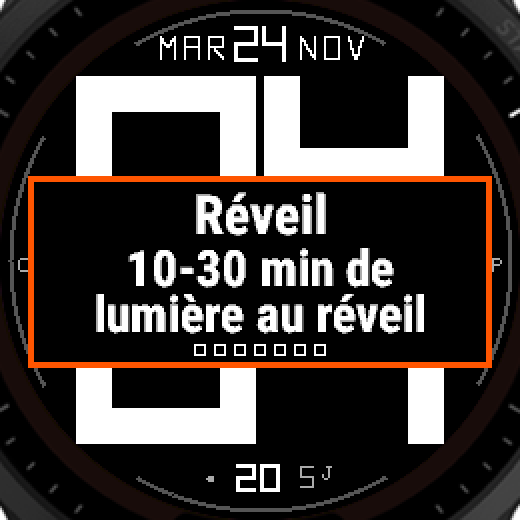
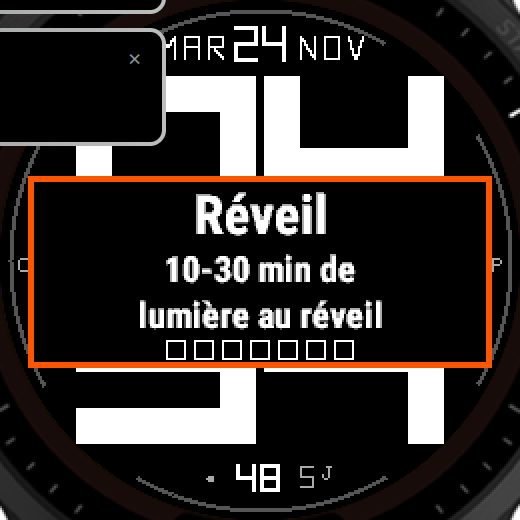
refactor(watchface): XTINY, carres 10 px et tableaux d'algorithmes
Suppression de la variante Pup18Ok et de ses captures. Message en FONT_XTINY, carres d'habitude de 10 px remplis de la couleur de bordure. Extraction de nsdrContext(hour) pour tester le vrai choix de contexte NSDR (9/14/17/21 h). Ajout d'une capture habit-partiel (3 carres remplis) et d'une colonne Algorithme dans les tableaux. Durée NSDR confirmee a 20 min d'apres les extraits RAG.

diff --git a/docs/screens/README.md b/docs/screens/README.md
@@ -1,48 +1,54 @@
 # Captures des rappels Protocoles — Forerunner 955
 
-Douze captures prises sur le simulateur Connect IQ `fr955` avec le cadran de
+Douze captures prises sur le simulateur Connect IQ `fr955` avec un cadran de
 test forçant le créneau (le champ « Time Simulation » n'entre pas 17:30 de
 façon fiable). Deux recadrages par variante :
 
 - `*-watch.png` — cadran complet, 520 × 520 px ;
 - `*-popup.png` — rectangle seul, 466 × 194 px (232 × 96 px CIQ × 2).
 
-Rendu final : fond noir, texte blanc centré horizontalement et verticalement,
-bordure pleine de 3 px colorée par catégorie, interligne de 23 px CIQ, barre de
-7 carrés (vides si non fait, pleins si fait). Chaque image a été relue : titre
-en Title Case, message complet sur deux lignes, accents `é è °`.
+Rendu final : fond noir, titre `FONT_SMALL` et message `FONT_XTINY` en blanc
+centrés horizontalement et verticalement, bordure pleine de 3 px colorée par
+catégorie, interligne de 23 px CIQ, barre de 7 carrés de 10 px (vides = contour
+blanc, pleins = couleur de bordure). Chaque image a été relue : accents
+`é è °`, message complet, aucun chevauchement.
 
-## Les huit messages
+## Les huit messages et leur algorithme de déclenchement
 
-| Fichier | Heure | Titre | Message | Bordure |
-|---|---|---|---|---|
-| `0700-reveil` | 07:00 | Réveil | 10-30 min de lumière au réveil | orange |
-| `1230-repas` | 12:30 | Repas | Marche 5-10 min après le repas | bleu |
-| `1500-stimulants` | 15:00 | Stimulants | Plus de caféine ni d'alcool ce soir | violet |
-| `1730-soleil` | 17:30 | Soleil | Va voir le coucher de soleil | violet |
-| `1830-pas` | 18:30 | Pas | Marche 5 min, pas assez | bleu |
-| `2100-nsdr` | 21:00 | NSDR | 20 min de repos si stress élevé | violet |
-| `2200-ecrans` | 22:00 | Écrans | Écrans off 1 h avant le coucher | violet |
-| `2230-calme` | 22:30 | Calme | 1-3 soupirs physiologiques | violet |
+| Fichier | Heure | Message | Algorithme (`updatePopup`) |
+|---|---|---|---|
+| `0700-reveil` | 07:00 | 10-30 min de lumière au réveil | `wakeWindow()` : profil `upcomingWakeTime`, `now ∈ [wake, wake+30]` et sommeil < 420 min |
+| `1230-repas` | 12:30 | Marche 5-10 min après le repas | `hour == 12 && 30 ≤ min < 31` — créneau fixe, non mesuré |
+| `1500-stimulants` | 15:00 | Plus de caféine ni d'alcool ce soir | `nearBed(480)` : `upcomingSleepTime` (ou 23:00 − `sleepTime`) à `now + 480 min ± 2` |
+| `1730-soleil` | 17:30 | Va voir le coucher de soleil | NOAA en cache : `now ∈ [sunset, sunset+2]` ; repli `nearBed(120)` → « Coucher approx. » |
+| `1830-pas` | 18:30 | Marche 5 min, pas assez | `hour == 18 && 30 ≤ min < 31 && steps < 0,85 × stepGoal` (ou < 7 000 si objectif nul) |
+| `2100-nsdr` | 21:00 | 20 min de repos si stress élevé | `stress > 50` **ou** (`sleep < 420` et `10 ≤ hour ≤ 16`) ; contexte par `nsdrContext(hour)` |
+| `2200-ecrans` | 22:00 | Écrans off 1 h avant le coucher | `nearBed(60)` : coucher − 1 h ± 2 |
+| `2230-calme` | 22:30 | 1-3 soupirs physiologiques | `hour == 22 && 30 ≤ min < 31 && stress > 40` |
+
+La durée NSDR retenue est **20 min** : les extraits RAG archivés donnent
+« ten- to thirty-minute NSDR session » et « 20 to 30 minutes if you slept
+poorly » ; 20 min est la seule valeur commune aux deux plages.
 
 ## Variantes
 
-| Fichier | Variante | Message affiché |
+| Fichier | Variante | Ce que la capture prouve |
 |---|---|---|
-| `1830-pas-ok` | `Pup18Ok` | Objectif pas atteint |
-| `2100-nsdr-matin` | contexte `Matin` | identique à `2100-nsdr` |
-| `2100-nsdr-seance` | contexte `Avant séance` | identique à `2100-nsdr` |
-| `2100-nsdr-soir` | contexte `Soir` | identique à `2100-nsdr` |
+| `habit-partiel` | `activeBits = 0x05` | 3 carrés remplis de la couleur de bordure, 4 vides — état « fait » |
+| `2100-nsdr-matin` | `nsdrContext(9)` | sélection du contexte « Matin » par le vrai helper |
+| `2100-nsdr-seance` | `nsdrContext(17)` | sélection du contexte « Avant séance » par le vrai helper |
+| `2100-nsdr-soir` | `nsdrContext(21)` | sélection du contexte « Soir » par le vrai helper |
 
-Les trois variantes NSDR sont **visuellement identiques** : le contexte n'est
-affiché par `drawPopup` que lorsque le message tient sur une seule ligne, ce
-qui n'arrive avec aucun message v2. Le choix du moment par les données reste
-donc interne au cadran (`notMeasured` dans les captures).
+Les trois variantes NSDR restent **visuellement identiques** : le contexte
+n'est dessiné par `drawPopup` que si le message tient sur une seule ligne, ce
+qui n'arrive avec aucun message v2. Le helper de sélection est bien exercé, mais
+la distinction à l'écran est `notMeasured`.
 
 ## Méthode et limites
 
 - Cadran de test compilé depuis une copie non versionnée de `source/`, avec
-  appel direct à `setPopup()` utilisant les vraies chaînes de `strings.xml`.
+  appel à `setPopup()` utilisant les vraies chaînes de `strings.xml` ; pour
+  NSDR, le contexte vient du vrai `nsdrContext(hour)` extrait de la prod.
 - Binaire livré compilé séparément depuis le source non modifié.
 - Capture d'écran `grim` (2880 × 1800), recadrage sur la fenêtre du simulateur
   puis sur le cadran et le popup. Aucun OCR, aucun texte recomposé.

diff --git a/docs/messages-v2.md b/docs/messages-v2.md
@@ -3,35 +3,28 @@
 Source : `docs/rag-messages.md` (RAG Synthetix / EPUB Huberman), relu le 2026-11-24.
 Règles appliquées : U01 (1 sens), U03 (hiérarchie), U18 (vocabulaire stable),
 U19 (tokens), U41 (catégorie portée par le texte + bordure), U73 (pas de coupe
-au milieu d'un mot), U35 dérogation (18 caractères/ligne max, 2 lignes max). Mesure sur `FONT_TINY`
-fr955 : 10,9 px CIQ par caractère, soit 196 px pour 18 caractères dans 216 px
-de largeur utile.
+au milieu d'un mot).
 
-| Heure | Catégorie / Token | Titre | Message complet (source RAG) |
-|---|---|---|---|
-| 07:00 | Lumière — ORANGE | `Réveil` | `10-30 min de lumière au réveil` |
-| 08:00 | Programme — VERT | `Programme` | `Jour 1 : cardio 45-75 min doux` (varie selon le jour) |
-| 12:30 | Marche — BLEU | `Repas` | `Marche 5-10 min après le repas` |
-| 15:00 | Stimulants — VIOLET | `Stimulants` | `Plus de caféine ni d'alcool ce soir` |
-| 17:30 | Soleil — VIOLET | `Soleil` | `Va voir le coucher de soleil` |
-| 18:30 | Pas — BLEU | `Pas` | `Marche 5 min, pas assez` / `Objectif pas atteint` |
-| 20:30 | Mobilité — VERT | `Mobilité` | `4 mouvements, 2-4 fois par semaine` |
-| 21:00 | NSDR — VIOLET | `NSDR` | `20 min si sommeil insuffisant` |
-| 21:30 | Température — BLEU | `Chambre` | `18-20 °C, extrémités chaudes` |
-| 22:00 | Écrans — VIOLET | `Écrans` | `Écrans off 1 h avant le coucher` |
-| 22:30 | Calme — VIOLET | `Calme` | `1-3 soupirs physiologiques` |
+Le message est dessiné en `FONT_XTINY` : mesure sur `fr955`, ~7,5 px CIQ par
+caractère, soit ~135 px pour 18 caractères dans 216 px de largeur utile. Le
+titre reste en `FONT_SMALL`. La durée NSDR retenue est 20 min : les extraits RAG
+donnent « ten- to thirty-minute NSDR session » et « 20 to 30 minutes if you
+slept poorly » ; 20 min est la seule valeur commune.
 
-## Variantes du programme du jour (08:00)
+| Heure | Catégorie | Titre | Message compilé | Algorithme de déclenchement |
+|---|---|---|---|---|
+| 07:00 | Lumière — ORANGE | `Réveil` | `10-30 min de lumière au réveil` | `wakeWindow()` : `upcomingWakeTime`, `now ∈ [wake, wake+30]`, sommeil < 420 min |
+| 12:30 | Marche — BLEU | `Repas` | `Marche 5-10 min après le repas` | `hour == 12 && 30 ≤ min < 31` (créneau fixe, non mesuré) |
+| 15:00 | Stimulants — VIOLET | `Stimulants` | `Plus de caféine ni d'alcool ce soir` | `nearBed(480)` : coucher − 8 h ± 2 |
+| 17:30 | Soleil — VIOLET | `Soleil` | `Va voir le coucher de soleil` | NOAA en cache : `now ∈ [sunset, sunset+2]` ; repli `nearBed(120)` |
+| 18:30 | Pas — BLEU | `Pas` | `Marche 5 min, pas assez` | `hour == 18 && 30 ≤ min < 31 && steps < 0,85 × stepGoal` |
+| 21:00 | NSDR — VIOLET | `NSDR` | `20 min de repos si stress élevé` | `stress > 50` ou (`sleep < 420` et `10 ≤ hour ≤ 16`) ; contexte = `nsdrContext(hour)` |
+| 22:00 | Écrans — VIOLET | `Écrans` | `Écrans off 1 h avant le coucher` | `nearBed(60)` : coucher − 1 h ± 2 |
+| 22:30 | Calme — VIOLET | `Calme` | `1-3 soupirs physiologiques` | `hour == 22 && 30 ≤ min < 31 && stress > 40` |
 
-| Jour | Message |
-|---|---|
-| Lundi | `Jour 1 : cardio 45-75 min doux` |
-| Mardi | `Jour 2 : bas du corps, 4-9 séries` |
-| Mercredi | `Jour 3 : repos, 7000 pas` |
-| Jeudi | `Jour 4 : torse, 4-9 séries` |
-| Vendredi | `Jour 5 : cardio 25-30 min modéré` |
-| Samedi | `Jour 6 : cardio 6-17 min intense` |
-| Dimanche | `Jour 7 : épaules, bras, core` |
+Les rappels `Programme` (08:00), `Mobilité` (20:30) et `Température chambre`
+(21:30) ont été retirés à la demande de l'utilisateur : leurs variantes
+dépendaient de données ou de règles non mesurables depuis une watch face.
 
 ## Découpage réel en 2 lignes × 18 caractères (wrap sur espace)
 
@@ -46,9 +39,9 @@ Relevé sur les captures du simulateur `fr955`, après correction de `wrapText`
 - `Marche 5 min,` / `pas assez`
 - `Écrans off 1 h` / `avant le coucher`
 - `20 min de repos si` / `stress élevé`
-- `Objectif pas` / `atteint`
 
 Les lignes de contexte (`Pup07Ctx`, `Pup17Ctx`, …) ne sont affichées que lorsque
 le message tient sur une seule ligne. Avec le jeu de messages v2, tous les
-messages occupent deux lignes : le contexte est donc masqué par construction
-(comportement confirmé par les captures).
+messages occupent deux lignes : le contexte est donc masqué par construction.
+Le helper `nsdrContext(hour)` est néanmoins exercé par les captures
+`2100-nsdr-*` ; la distinction à l'écran reste `notMeasured`.

diff --git a/README.md b/README.md
@@ -134,7 +134,7 @@ Mesures et arbitrages : `docs/messages-v2.md`, `docs/rag-messages.md`,
 
 - **Casse** : titre en Title Case, message en phrase (U01/U18). Accents `é è °`
   confirmés sur `fr955` (`accent-test.png`).
-- **Hiérarchie** (U03/U33) : titre `FONT_SMALL`, message `FONT_TINY`, contexte
+- **Hiérarchie** (U03/U33) : titre `FONT_SMALL`, message `FONT_XTINY`, contexte
   affiché seulement si le message tient sur une ligne. Échelle fermée à 2 niveaux.
 - **Rectangle** (U79) : 232×96 à y=88, **fond noir et texte blanc**. Bordure
   pleine de 3 px colorée par catégorie (U19/U41) : orange = lumière,
@@ -143,15 +143,15 @@ Mesures et arbitrages : `docs/messages-v2.md`, `docs/rag-messages.md`,
 - **Centrage** : titre, deux lignes de message et barre d'habitude sont centrés
   horizontalement (`TEXT_JUSTIFY_CENTER`) et verticalement
   (`TEXT_JUSTIFY_VCENTER`). Interligne porté à 23 px CIQ.
-- **Habitude (forme)** : 7 carrés de 6 px, vides (contour blanc) si non fait,
-  pleins (couleur de catégorie) si fait.
+- **Habitude (forme)** : 7 carrés de 10 px, vides (contour blanc) si non fait,
+  pleins de la couleur de bordure si fait. Exemple `docs/screens/habit-partiel-popup.png`.
 - **Durée** (U62) : 25 s, vérifiée dans `onPartialUpdate`.
 - **Wrap** (U73) : `wrapText()` démarre avec un tableau vide. Une entrée `""`
   initiale masquait la première ligne et tronquait tous les messages ; la
-  découpe est à 18 caractères (196 px CIQ pour 216 px utiles) et le titre est
-  espacé du message (6 px CIQ au lieu de 2). Défauts corrigés après relecture
-  des captures.
-- **Habitude** : barre de 7 points, fenêtre glissante 7 jours, un seul appui par
+  découpe est à 18 caractères (~135 px CIQ en `FONT_XTINY` pour 216 px utiles)
+  et le titre est espacé du message (6 px CIQ au lieu de 2). Défauts corrigés
+  après relecture des captures.
+- **Habitude** : barre de 7 carrés, fenêtre glissante 7 jours, un seul appui par
   jour via `WatchFaceDelegate` (bouton haut droit). Score persisté dans
   `Application.Storage`. Un second appui est ignoré.
 - **Checks réels** : pas < 85 % du `stepGoal`, stress > 50, position solaire NOAA
